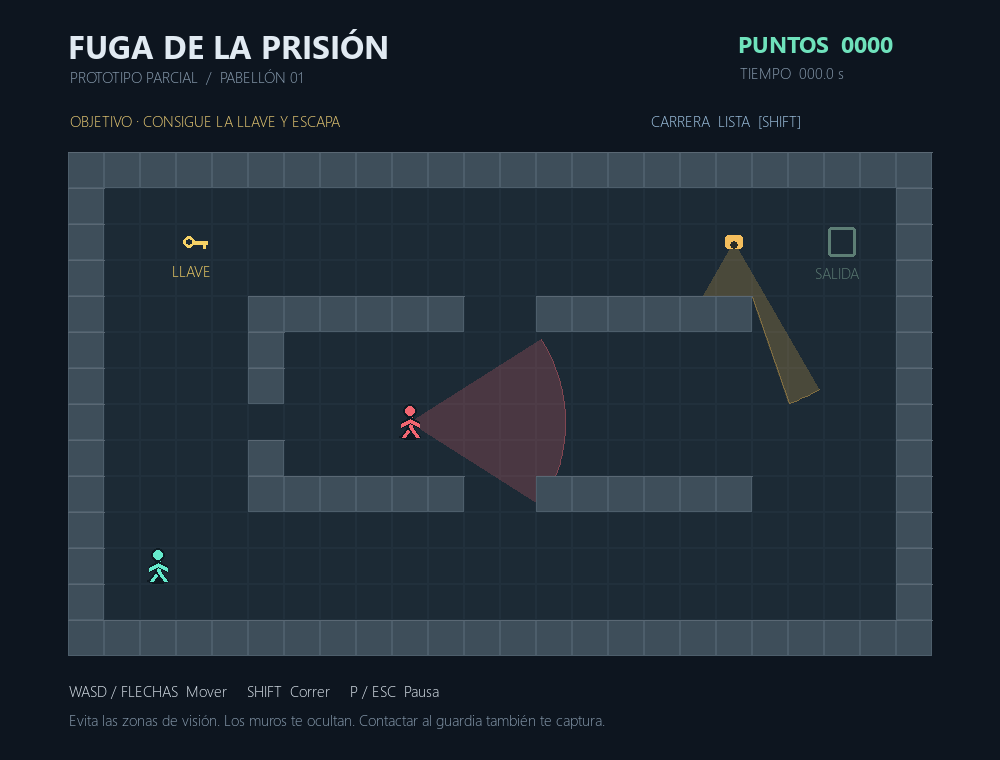
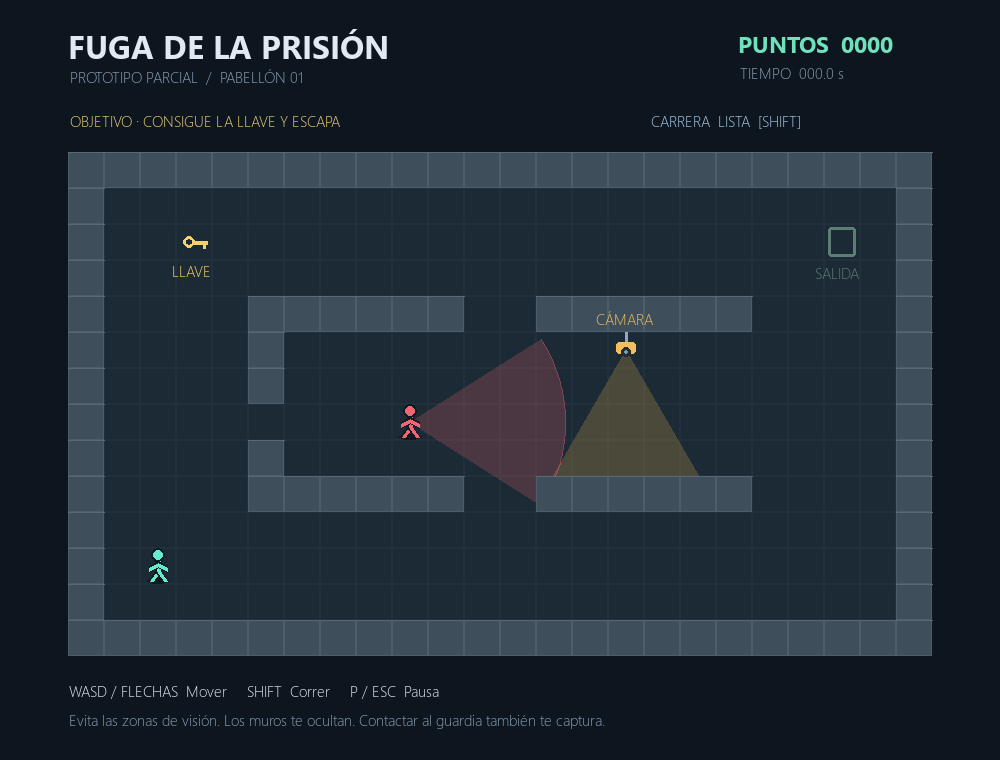
Cambios

Changed region(s): [[0.558, 0.3934, 0.713, 0.6355], [0.682, 0.3026, 0.837, 0.5447]]

diff --git a/src/vista.py b/src/vista.py
@@ -92,8 +92,11 @@ class Vista:
             self.texto("LLAVE", x - 22, y + 18, (246, 210, 102), self.pequena)
         for camara in nivel.camaras:
             x, y = self.punto(camara.posicion)
-            pygame.draw.rect(self.pantalla, (244, 190, 93), (x - 9, y - 7, 18, 14), border_radius=3)
-            pygame.draw.circle(self.pantalla, (40, 43, 40), (x, y + 3), 4)
+            pygame.draw.line(self.pantalla, (152, 169, 179), (x, y - 18), (x, y - 7), 3)
+            pygame.draw.rect(self.pantalla, (244, 190, 93), (x - 10, y - 8, 20, 12), border_radius=3)
+            pygame.draw.circle(self.pantalla, (37, 43, 48), (x, y + 2), 5)
+            pygame.draw.circle(self.pantalla, (101, 159, 180), (x, y + 2), 2)
+            self.texto("CÁMARA", x - 30, y - 42, (244, 190, 93), self.pequena)
         gx, gy = self.punto(guardia.get_posicion())
         paso_guardia = round(math.sin(nivel.tiempo * 11) * 3)
         self._dibujar_stickman((gx, gy), (242, 102, 113), paso_guardia)

diff --git a/tests/test_juego.py b/tests/test_juego.py
@@ -91,9 +91,14 @@ class PruebasJuego(unittest.TestCase):
 
     def test_camara_detecta(self):
         nivel = self.juego.nivel
-        ubicar(nivel.prisionero, centro(18, 3))
+        ubicar(nivel.prisionero, centro(15, 6))
         self.juego.actualizar(0, set())
         self.assertIsInstance(self.juego.estado, Derrota)
+
+        otro_juego = Juego()
+        ubicar(otro_juego.nivel.prisionero, centro(15, 3))
+        otro_juego.actualizar(0, set())
+        self.assertIsInstance(otro_juego.estado, Jugando)
 
     def test_guardia_detecta_y_patrulla(self):
         nivel = self.juego.nivel

diff --git a/src/nivel.py b/src/nivel.py
@@ -56,7 +56,8 @@ class Nivel:
         self.prisionero = Prisionero(self, *centro(2, 11))
         self.guardia = Guardia(self, [centro(9, 7), centro(19, 7)])
         self.personajes = [self.prisionero, self.guardia]
-        self.camaras = [Camara(centro(18, 2))]
+        # Montada bajo el muro horizontal: vigila el pasillo central.
+        self.camaras = [Camara(centro(15, 5))]
         self.llave = Llave(centro(3, 2))
         self.salida = PuertaSalida(centro(21, 2))
 
